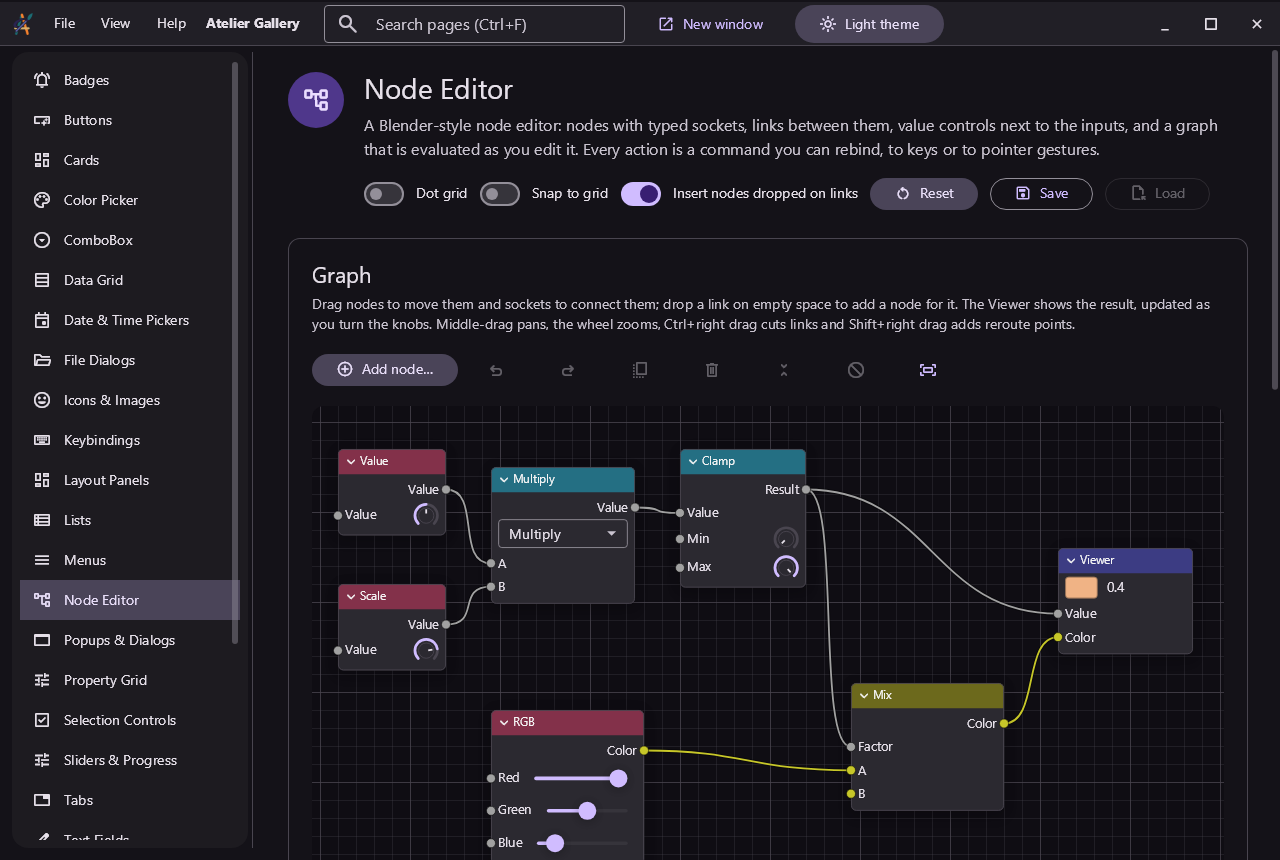
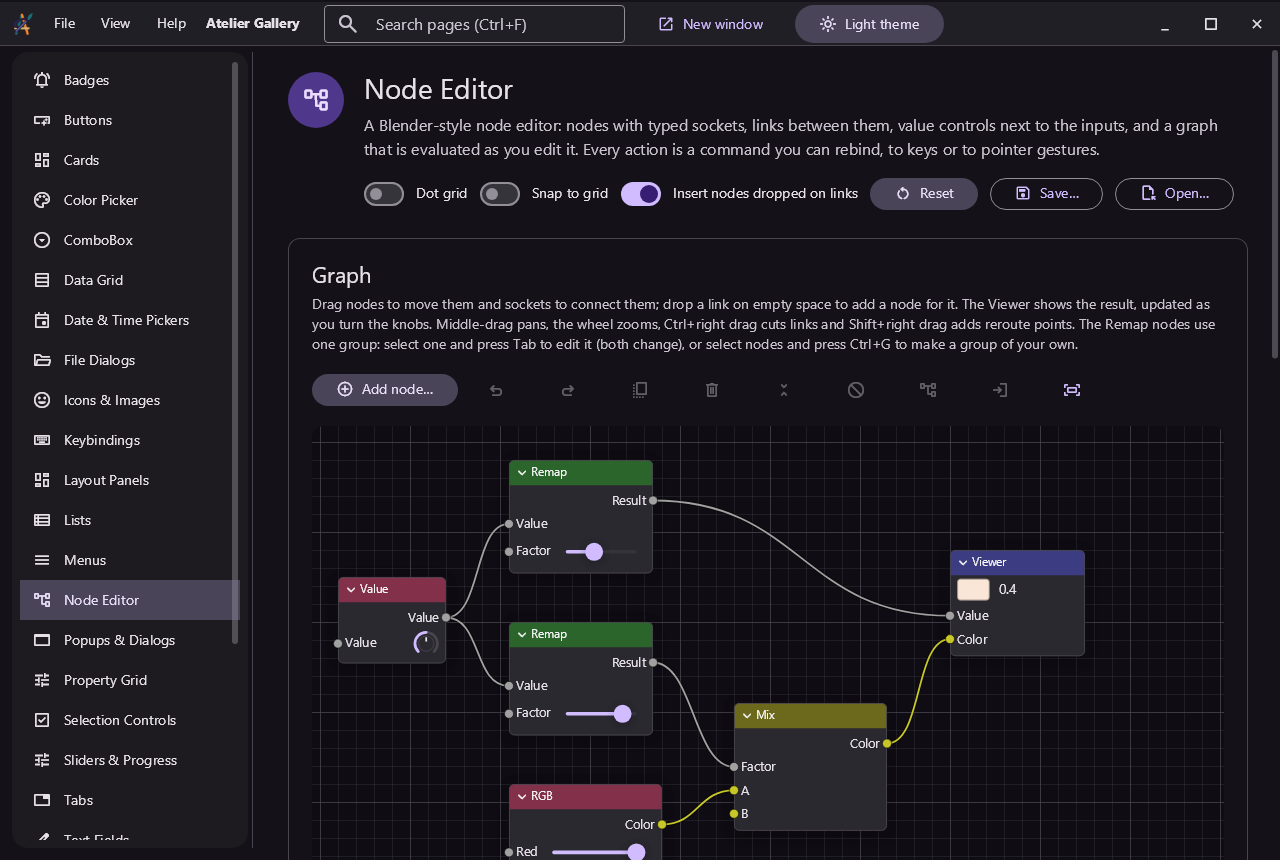
Use a node group and file dialogs on the gallery's Node Editor page
The demo graph uses a Remap group twice, the toolbar has the group
commands, and Save and Open ask for the JSON file with the file dialogs.
Update the README and its screenshot.

diff --git a/samples/Atelier.Gallery/ViewModels/NodeEditorViewModel.cs b/samples/Atelier.Gallery/ViewModels/NodeEditorViewModel.cs
@@ -1,5 +1,6 @@
 using System;
 using System.IO;
+using System.Threading.Tasks;
 using Atelier.Controls;
 using Atelier.Core.Keybinding;
 using Atelier.Core.Primitives;
@@ -18,7 +19,7 @@ public partial class NodeEditorViewModel : PageViewModel
     /// <summary>The keybinding group of this page's commands.</summary>
     public const string Group = "NodeEditorPage";
 
-    /// <summary>Gets the file the graph is saved to: <c>%APPDATA%\Atelier\Gallery\node-graph.json</c> on Windows.</summary>
+    /// <summary>Gets the file the graph is saved to when no dialog asks: <c>%APPDATA%\Atelier\Gallery\node-graph.json</c> on Windows.</summary>
     public static string SavePath { get; } = Path.Combine(
         Environment.GetFolderPath(Environment.SpecialFolder.ApplicationData), "Atelier", "Gallery", "node-graph.json");
 
@@ -34,14 +35,14 @@ public partial class NodeEditorViewModel : PageViewModel
     private bool _autoInsert = true;
 
     [ObservableProperty]
-    private string _status = "Right-click or press Shift+A to add nodes.";
+    private string _status = "Right-click or press Shift+A to add nodes. Select a Remap node and press Tab to edit its group.";
 
     public NodeEditorViewModel()
     {
         PageIcon = MaterialIconKind.AccountTree;
         PageTitle = "Node Editor";
         CommandGroup = Group;
-        Keywords = "node editor graph blender socket link reroute knob dataflow evaluation";
+        Keywords = "node editor graph blender socket link reroute knob dataflow evaluation group subgraph";
         DemoSockets.RegisterNodes(Graph.Catalog);
         BuildDemo();
         _evaluator = new GraphEvaluator(Graph);
@@ -60,48 +61,92 @@ public partial class NodeEditorViewModel : PageViewModel
         Status = "The demo graph is back.";
     }
 
+    /// <summary>
+    /// Gets or sets how the page asks where to save the graph (the view shows a Save dialog); it returns the chosen path,
+    /// or <c>null</c> when canceled. Without it, the graph is saved to <see cref="SavePath"/>.
+    /// </summary>
+    public Func<Task<string?>>? ChooseSaveFile { get; set; }
+
+    /// <summary>
+    /// Gets or sets how the page asks which graph to open (the view shows an Open dialog); it returns the chosen path, or
+    /// <c>null</c> when canceled. Without it, the graph is loaded from <see cref="SavePath"/>.
+    /// </summary>
+    public Func<Task<string?>>? ChooseOpenFile { get; set; }
+
     [RelayCommand]
-    [property: Command("SaveGraph", Group, Label = "Save", Icon = MaterialIcons.Save, Description = "Save the graph to node-graph.json in the gallery's settings folder")]
-    private void SaveGraph()
+    [property: Command("SaveGraph", Group, Label = "Save…", Icon = MaterialIcons.Save, Description = "Save the graph as a JSON file")]
+    private async Task SaveGraph()
     {
-        Directory.CreateDirectory(Path.GetDirectoryName(SavePath)!);
-        File.WriteAllText(SavePath, NodeGraphSerializer.Save(Graph));
-        Status = $"Saved to {SavePath}";
-        LoadGraphCommand.NotifyCanExecuteChanged();
+        string? path = ChooseSaveFile != null ? await ChooseSaveFile() : SavePath;
+        if (path == null) return;
+        try
+        {
+            if (Path.GetDirectoryName(path) is { Length: > 0 } folder) Directory.CreateDirectory(folder);
+            File.WriteAllText(path, NodeGraphSerializer.Save(Graph, out var problems));
+            Status = problems.Count == 0 ? $"Saved to {path}" : $"Saved to {path}. {string.Join(" ", problems)}";
+        }
+        catch (Exception ex) when (ex is IOException or UnauthorizedAccessException)
+        {
+            Status = $"Couldn't save: {ex.Message}";
+        }
     }
 
-    [RelayCommand(CanExecute = nameof(CanLoadGraph))]
-    [property: Command("LoadGraph", Group, Label = "Load", Icon = MaterialIcons.FileOpen, Description = "Load the graph saved last")]
-    private void LoadGraph()
+    [RelayCommand]
+    [property: Command("LoadGraph", Group, Label = "Open…", Icon = MaterialIcons.FileOpen, Description = "Open a graph saved as a JSON file")]
+    private async Task LoadGraph()
     {
-        var problems = NodeGraphSerializer.Load(Graph, File.ReadAllText(SavePath));
-        _evaluator.InvalidateAll();
-        Status = problems.Count == 0 ? "Loaded the saved graph." : string.Join(" ", problems);
+        string? path = ChooseOpenFile != null ? await ChooseOpenFile() : SavePath;
+        if (path == null) return;
+        try
+        {
+            var problems = NodeGraphSerializer.Load(Graph, File.ReadAllText(path));
+            _evaluator.InvalidateAll();
+            Status = problems.Count == 0 ? $"Opened {path}" : $"Opened {path}. {string.Join(" ", problems)}";
+        }
+        catch (Exception ex) when (ex is IOException or UnauthorizedAccessException or FormatException)
+        {
+            Status = $"Couldn't open {path}: {ex.Message}";
+        }
     }
 
-    private static bool CanLoadGraph() => File.Exists(SavePath);
-
-    // Two values multiplied and clamped, and a color mixed by the result, both shown by a viewer.
+    // A value remapped twice by the same group (Value × Factor, clamped): once for the viewer's number, once to mix a
+    // color, which the viewer shows too.
     private void BuildDemo()
     {
-        var value = (ValueNode)Graph.AddNode("value", new Point(20, 30));
-        var scale = (ValueNode)Graph.AddNode("value", new Point(20, 180));
-        scale.Title = "Scale";
-        scale.Inputs[0].Value = 0.8;
-        var math = (MathNode)Graph.AddNode("math", new Point(190, 50));
-        math.Operation = MathOperation.Multiply;
-        var clamp = Graph.AddNode("clamp", new Point(400, 30));
-        var rgb = Graph.AddNode("rgb", new Point(190, 320));
-        var mix = Graph.AddNode("mix", new Point(590, 290));
-        var viewer = Graph.AddNode("viewer", new Point(820, 140));
+        var remap = BuildRemapGroup();
+        var value = (ValueNode)Graph.AddNode("value", new Point(20, 150));
+        var number = Graph.AddNode(new GroupNodeViewModel(remap) { Position = new Point(210, 20) });
+        var amount = Graph.AddNode(new GroupNodeViewModel(remap) { Position = new Point(210, 200) });
+        amount.Inputs[1].Value = 1.6;
+        var rgb = Graph.AddNode("rgb", new Point(210, 380));
+        var mix = Graph.AddNode("mix", new Point(460, 290));
+        var viewer = Graph.AddNode("viewer", new Point(700, 120));
 
-        Graph.Connect(value.Outputs[0], math.Inputs[0]);
-        Graph.Connect(scale.Outputs[0], math.Inputs[1]);
-        Graph.Connect(math.Outputs[0], clamp.Inputs[0]);
-        Graph.Connect(clamp.Outputs[0], viewer.Inputs[0]);
-        Graph.Connect(clamp.Outputs[0], mix.Inputs[0]);
+        Graph.Connect(value.Outputs[0], number.Inputs[0]);
+        Graph.Connect(value.Outputs[0], amount.Inputs[0]);
+        Graph.Connect(number.Outputs[0], viewer.Inputs[0]);
+        Graph.Connect(amount.Outputs[0], mix.Inputs[0]);
         Graph.Connect(rgb.Outputs[0], mix.Inputs[1]);
         Graph.Connect(mix.Outputs[0], viewer.Inputs[1]);
         Graph.Undo.Clear();
+    }
+
+    // The "Remap" group: Value × Factor, clamped between 0 and 1.
+    private NodeGroupDefinition BuildRemapGroup()
+    {
+        var remap = Graph.Groups.Add("Remap");
+        var value = remap.AddInput("Value", DemoSockets.Float, defaultValue: 0.5);
+        var factor = remap.AddInput("Factor", DemoSockets.Float, defaultValue: 0.8, minimum: 0, maximum: 2);
+        var result = remap.AddOutput("Result", DemoSockets.Float);
+        var math = (MathNode)remap.Graph.AddNode("math", new Point(220, 30));
+        math.Operation = MathOperation.Multiply;
+        var clamp = remap.Graph.AddNode("clamp", new Point(440, 20));
+        remap.InputNode.Position = new Point(20, 60);
+        remap.OutputNode.Position = new Point(650, 60);
+        remap.Graph.Connect(remap.InputNode.OutputFor(value)!, math.Inputs[0]);
+        remap.Graph.Connect(remap.InputNode.OutputFor(factor)!, math.Inputs[1]);
+        remap.Graph.Connect(math.Outputs[0], clamp.Inputs[0]);
+        remap.Graph.Connect(clamp.Outputs[0], remap.OutputNode.InputFor(result)!);
+        return remap;
     }
 }

diff --git a/samples/Atelier.Gallery/Views/NodeEditorView.cs b/samples/Atelier.Gallery/Views/NodeEditorView.cs
@@ -31,6 +31,14 @@ public class NodeEditorView : GalleryPage
             .Bind(NodeEditor.AutoInsertProperty, _vm, v => v.AutoInsert);
         UpdateBackground();
 
+        // Save and Open ask for the file with the file dialogs.
+        const string filter = "Node graph (*.json)|*.json|All files (*.*)|*.*";
+        var documents = Environment.GetFolderPath(Environment.SpecialFolder.MyDocuments);
+        var saveDialog = new SaveFileDialog { Title = "Save the graph", Filter = filter, FileName = "node-graph", DefaultExt = "json", InitialDirectory = documents };
+        var openDialog = new OpenFileDialog { Title = "Open a graph", Filter = filter, InitialDirectory = documents };
+        _vm.ChooseSaveFile = async () => await saveDialog.ShowAsync(this) ? saveDialog.FileName : null;
+        _vm.ChooseOpenFile = async () => await openDialog.ShowAsync(this) ? openDialog.FileName : null;
+
         Settings(
             new Switch("Dot grid").BindIsChecked(_vm, v => v.UseDotGrid, (v, on) => v.UseDotGrid = on),
             new Switch("Snap to grid").BindIsChecked(_vm, v => v.SnapToGrid, (v, on) => v.SnapToGrid = on),
@@ -76,12 +84,15 @@ public class NodeEditorView : GalleryPage
             Tool(NodeEditorCommands.Delete),
             Tool(NodeEditorCommands.ToggleCollapse),
             Tool(NodeEditorCommands.ToggleMute),
+            Tool(NodeEditorCommands.MakeGroup),
+            Tool(NodeEditorCommands.EnterGroup),
             Tool(NodeEditorCommands.FrameAll));
 
         return Ui.Section("Graph",
             "Drag nodes to move them and sockets to connect them; drop a link on empty space to add a node for it. The " +
             "Viewer shows the result, updated as you turn the knobs. Middle-drag pans, the wheel zooms, Ctrl+right drag " +
-            "cuts links and Shift+right drag adds reroute points.",
+            "cuts links and Shift+right drag adds reroute points. The Remap nodes use one group: select one and press Tab " +
+            "to edit it (both change), or select nodes and press Ctrl+G to make a group of your own.",
             toolbar,
             new Border().CornerRadius(12).ClipToBounds().Child(_editor),
             Ui.Readout(_vm, v => v.Status));

diff --git a/README.md b/README.md
@@ -164,7 +164,7 @@ new Grid().Columns("Auto,*").Spacing(12, 8).Children(label.Cell(0, 0), field.Cel
 | `TitleBar`, `Toolbar`, `KeybindingHandler` | Custom window chrome, action bars, scoped shortcuts with chords, and pointer gestures bound like keys (`"RightClick"`, `"Ctrl+WheelUp"`, `"MiddleDrag"` running an `IDragCommand`); a handler can run further groups for a fixed target; users can change a command's label, icon and shortcut (`KeybindingManager.SetCustomization`, saved and restored as JSON) |
 | `KeybindingEditor`, `ShortcutRecorder`, `ShortcutView` | Lets users change every command's label, icon and shortcut, listed by group (or all, or the changed ones), with search, conflicts and reset; records shortcuts and chords from key presses, and clicks, drags and wheel turns; shows shortcuts as key caps |
 | `CommandPalette` | Searches the commands whose shortcuts work where the focus is (`KeybindingHandler.GetActiveCommands`: the handlers from the focus up to the window), ranks label prefixes, word starts and initials first, and runs the chosen one on its target |
-| `NodeEditor` | Blender-style node graphs ([`Atelier.NodeEditor`](src/Atelier.NodeEditor)): typed sockets with opt-in conversions, links as curves, value controls beside unconnected inputs; Blender-style editing (select, box select, move with snapping, drag to connect or move links, delete, duplicate, collapse, mute, a searchable add menu and a context menu; drop a node on a link to insert it, Alt+drag to detach it, drop a link on empty space to search for a node to connect, Ctrl+right drag to cut links, Shift+right drag to add reroute points); saving as JSON and copy and paste with every action a rebindable command; grid and dot backgrounds, undo, and optional dataflow evaluation |
+| `NodeEditor` | Blender-style node graphs ([`Atelier.NodeEditor`](src/Atelier.NodeEditor)): typed sockets with opt-in conversions, links as curves, value controls beside unconnected inputs; Blender-style editing (select, box select, move with snapping, drag to connect or move links, delete, duplicate, collapse, mute, a searchable add menu and a context menu; drop a node on a link to insert it, Alt+drag to detach it, drop a link on empty space to search for a node to connect, Ctrl+right drag to cut links, Shift+right drag to add reroute points); reusable node groups (Ctrl+G to make one, Tab to edit it, with its inputs and outputs in a panel); saving as JSON and copy and paste with every action a rebindable command; grid and dot backgrounds, undo, and optional dataflow evaluation |
 
 ### Layout
 
